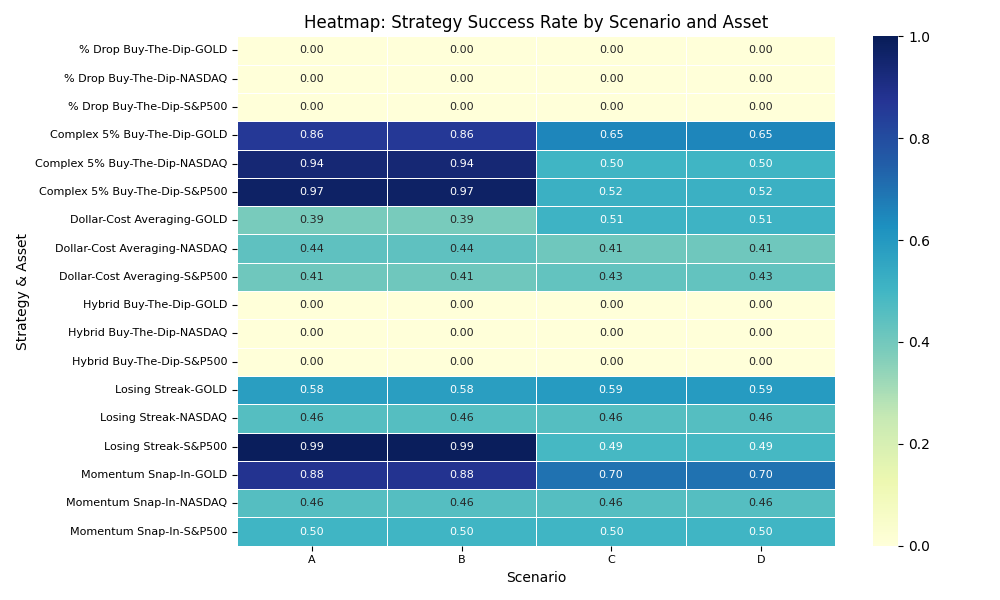
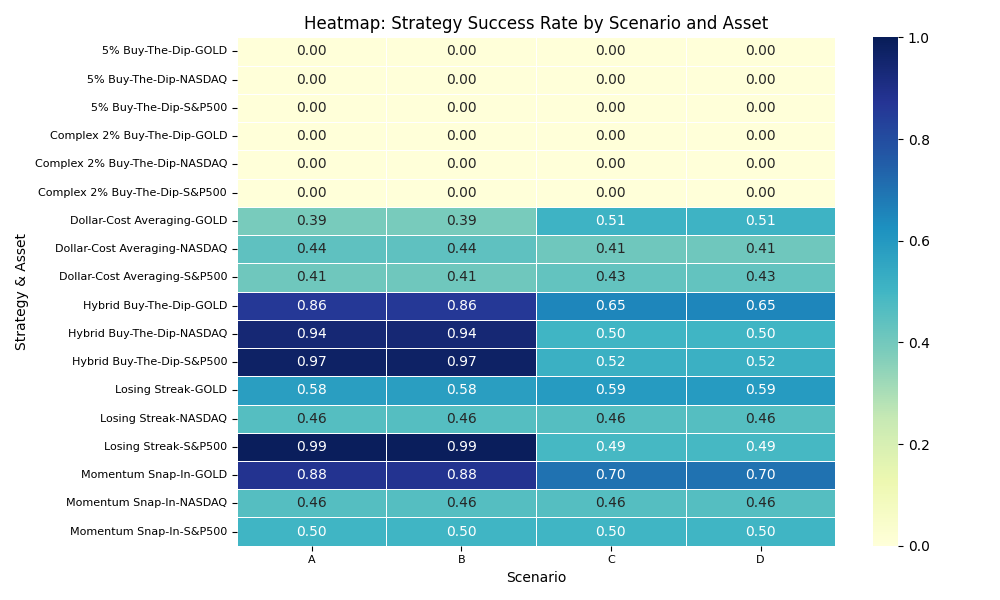
updating plots and images, fixing labels

diff --git a/getting_plots.py b/getting_plots.py
@@ -25,8 +25,7 @@ def get_heatmap():
         cmap="YlGnBu", 
         vmin=0, 
         vmax=1, 
-        linewidths=0.5,
-        annot_kws={"size": 8}  # smaller text inside boxes
+        linewidths=0.5
     )
 
     # Plot aesthetics
@@ -69,7 +68,7 @@ def get_barchart():
         x="Scenario",
         y="Success Rate",
         hue="Strategy",
-        palette="viridis",
+        palette="CMRmap",
         errorbar=None
     )
 
@@ -117,7 +116,6 @@ def get_scenario_avg_heatmap():
         vmin=0,
         vmax=1,
         linewidths=0.5,
-        palette="viridis",
         annot_kws={"size": 10}
     )
 
@@ -129,7 +127,6 @@ def get_scenario_avg_heatmap():
 
     # Show the heatmap
     plt.show()
-
 
 import pandas as pd
 import seaborn as sns
@@ -184,60 +181,187 @@ def plot_avg_earnings_per_scenario():
     plt.show()
 
 import pandas as pd
-import seaborn as sns
 import matplotlib.pyplot as plt
+import seaborn as sns
 
-def plot_mean_final_value_per_asset():
+def plot_mean_final_value_per_strategy():
     # Load dataset
     df = pd.read_csv("investment_simulation_results.csv")
 
-    # Clean asset names
+    # Define strategies and their corresponding labels
+    strategies = [
+        "first",
+        "losing",
+        "growing",
+        "buythedip",
+        "0.98buythedip",
+        "complexbuythedip"
+    ]
+
+    strategy_labels = {
+        "first": "Dollar-Cost Averaging",
+        "losing": "Losing Streak",
+        "growing": "Momentum Snap-In",
+        "buythedip": "5% Buy-The-Dip",
+        "0.98buythedip": "Complex 2% Drop Buy-The-Dip",
+        "complexbuythedip": "Hybrid Buy-The-Dip",
+        "random": "Random Strategy"
+    }
+
+    # List to hold the combined data
+    combined_data = []
+
+    # Process each strategy
+    for strategy in strategies:
+        strat_avg = (
+            df[df["Strategy"] == strategy]
+            .groupby(["Scenario"])["Final Value"]
+            .mean()
+            .reset_index()
+            .rename(columns={"Final Value": "Average Final Value"})
+        )
+        strat_avg["Type"] = strategy
+        combined_data.append(strat_avg)
+
+    # Process the random strategy
+    rand_avg = (
+        df.groupby(["Scenario"])["Random Final"]
+        .mean()
+        .reset_index()
+        .rename(columns={"Random Final": "Average Final Value"})
+    )
+    rand_avg["Type"] = "random"
+    combined_data.append(rand_avg)
+
+    # Combine all data
+    combined = pd.concat(combined_data, ignore_index=True)
+
+    # Map strategy names to labels
+    combined["Type"] = combined["Type"].map(strategy_labels)
+
+    # Plot
+    plt.figure(figsize=(14, 8))
+    ax = sns.barplot(
+        data=combined,
+        x="Scenario",
+        y="Average Final Value",
+        hue="Type",
+        palette="Set2"
+    )
+
+    # Aesthetics
+    plt.title("Average Final Value per Strategy and Scenario", fontsize=14)
+    plt.ylabel("Average Final Portfolio Value", fontsize=12)
+    plt.xlabel("Scenario", fontsize=12)
+    plt.legend(title="Strategy", bbox_to_anchor=(1.05, 1), loc='upper left', fontsize='small')
+    plt.tight_layout()
+    plt.show()
+
+import pandas as pd
+import seaborn as sns
+import matplotlib.pyplot as plt
+
+def get_scenario_avg_heatmap_excluding():
+    # Load the data
+    df = pd.read_csv("strategy_success_rates.csv")
+
+    # Optional: Clean asset names
     df["Asset"] = df["Asset"].replace({
         "^GSPC": "S&P500",
         "^IXIC": "NASDAQ",
         "GC=F": "Gold"
     })
 
-    # --- STRATEGY average per Scenario and Asset ---
-    strat_avg = (
-        df.groupby(["Scenario", "Asset"])["Final Value"]
-        .mean()
-        .reset_index()
-        .rename(columns={"Final Value": "Average Final Value"})
+    # Exclude 'buythedip' and 'losing' strategies
+    df = df[~df["Strategy"].isin(["5% Buy-The-Dip", "Complex 2% Buy-The-Dip"])]
+
+    # Rename column for clarity
+    df.rename(columns={"Beats the Random in what %?": "Success Rate"}, inplace=True)
+
+    # Group by Scenario only and take mean success rate
+    scenario_avg = df.groupby("Scenario")["Success Rate"].mean().reset_index()
+
+    # Turn it into a format suitable for heatmap (1 row, multiple columns)
+    pivot = scenario_avg.pivot_table(index=None, columns="Scenario", values="Success Rate")
+
+    # Plot heatmap
+    plt.figure(figsize=(10, 1.5))  # Make it short since it’s a 1-row heatmap
+    sns.heatmap(
+        pivot,
+        annot=True,
+        fmt=".2f",
+        cmap="YlOrRd",
+        vmin=0,
+        vmax=1,
+        linewidths=0.5,
+        annot_kws={"size": 10}
     )
-    strat_avg["Type"] = "Strategy"
 
-    # --- RANDOM average per Scenario and Asset ---
-    rand_avg = (
-        df.groupby(["Scenario", "Asset"])["Random Final"]
-        .mean()
-        .reset_index()
-        .rename(columns={"Random Final": "Average Final Value"})
-    )
-    rand_avg["Type"] = "Random"
+    # Aesthetics
+    plt.title("Average Success Rate per Scenario (Excluding Zero Success Strategies)", fontsize=12)
+    plt.yticks([], [])  # Hide y-axis since it's just a single row
+    plt.xlabel("Scenario", fontsize=10)
+    plt.tight_layout()
 
-    # Combine both
-    combined = pd.concat([strat_avg, rand_avg], ignore_index=True)
+    # Show the heatmap
+    plt.show()
 
-    # Create a label to differentiate bars by both Type and Asset
-    combined["Label"] = combined["Asset"] + " (" + combined["Type"] + ")"
+import pandas as pd
+import seaborn as sns
+import matplotlib.pyplot as plt
+
+def plot_avg_earnings_per_scenario_excluding():
+    # Load the dataset
+    df = pd.read_csv("investment_simulation_results.csv")  # use your actual file name
+
+    # Rename asset codes for readability
+    df["Asset"] = df["Asset"].replace({
+        "^GSPC": "S&P500",
+        "^IXIC": "NASDAQ",
+        "GC=F": "Gold"
+    })
+
+    # Exclude 'buythedip' and 'losing' strategies
+    df = df[~df["Strategy"].isin(["buythedip", "0.98buythedip"])]
+
+    # Compute average final value (earnings) per scenario for strategy and random
+    strategy_avg = df.groupby("Scenario")["Final Value"].mean().reset_index()
+    random_avg = df.groupby("Scenario")["Random Final"].mean().reset_index()
+
+    # Rename columns to merge easily
+    strategy_avg.rename(columns={"Final Value": "Average Final Value"}, inplace=True)
+    random_avg.rename(columns={"Random Final": "Average Final Value"}, inplace=True)
+
+    # Add a column to distinguish them
+    strategy_avg["Type"] = "Strategy"
+    random_avg["Type"] = "Random"
+
+    # Combine into one DataFrame
+    combined = pd.concat([strategy_avg, random_avg])
 
     # Plot
-    plt.figure(figsize=(12, 6))
+    plt.figure(figsize=(10, 6))
     ax = sns.barplot(
         data=combined,
         x="Scenario",
         y="Average Final Value",
-        hue="Label",
-        palette="Set2"
+        hue="Type",
+        palette="viridis"
     )
+    for container in ax.containers:
+        ax.bar_label(container, fmt="%.2f", padding=3, fontsize=9)
 
     # Aesthetics
-    plt.title("Average Final Value per Asset and Scenario (Strategy vs Random)", fontsize=14)
+    plt.title("Average Earnings per Scenario: Strategy vs Random (Excluding Zero Success Strategies)", fontsize=14)
     plt.ylabel("Average Final Portfolio Value", fontsize=12)
     plt.xlabel("Scenario", fontsize=12)
-    plt.legend(title="Asset (Type)", bbox_to_anchor=(1.05, 1), loc='upper left')
+    plt.legend(title="Type", loc="best")
     plt.tight_layout()
+
+    # Show it
     plt.show()
 
-plot_mean_final_value_per_asset()
+get_scenario_avg_heatmap()
+get_scenario_avg_heatmap_excluding()
+plot_avg_earnings_per_scenario_excluding()
+plot_mean_final_value_per_strategy()

diff --git a/simulate_investment.py b/simulate_investment.py
@@ -133,7 +133,7 @@ def simulate_investment(stock, initial_amount, monthly_investment, strategy, yea
         In order to fit the input idea, the strategy was adapted into an easier and more specified model.
         
         Hold a budget.
-        If the next day drop more than 10% then buy. Else, do not. Keep it in a count and then invest
+        If the next day drop more than 20% then buy. Else, do not. Keep it in a count and then invest
         when it is correct to do so. If the period ends and still leftover cash, invest all. 
         """
         previous_month = data.index[0].month

diff --git a/main_dash.py b/main_dash.py
@@ -47,6 +47,7 @@ app.layout = html.Div([
                         {'label': 'Momentum Snap-In', 'value': 'growing'},
                         {'label': '% Drop Buy-The-Dip', 'value': '0.98buythedip'},
                         {'label': 'Hybrid Buy-The-Dip', 'value': 'complexbuythedip'},
+                        {'label': 'Complex 5% Buy-The-Dip', 'value': 'complexbuythedip'},
                         {'label': 'Dollar-Cost Averaging', 'value': 'first'}
                     ],
                     value='losing',

diff --git a/scenarios_output.py b/scenarios_output.py
@@ -20,7 +20,7 @@ result = df.groupby(["Scenario", "Asset", "Strategy"])["Success"].mean().reset_i
 result.rename(columns={"Success": "Proportion Final > Random"}, inplace=True)
 
 # Save the result to a new CSV
-result.to_csv("strategy_success_rates.csv", index=False)
+result.to_csv("no_name_strategy_success_rates.csv", index=False)
 
 # Print the result
 print(result)
